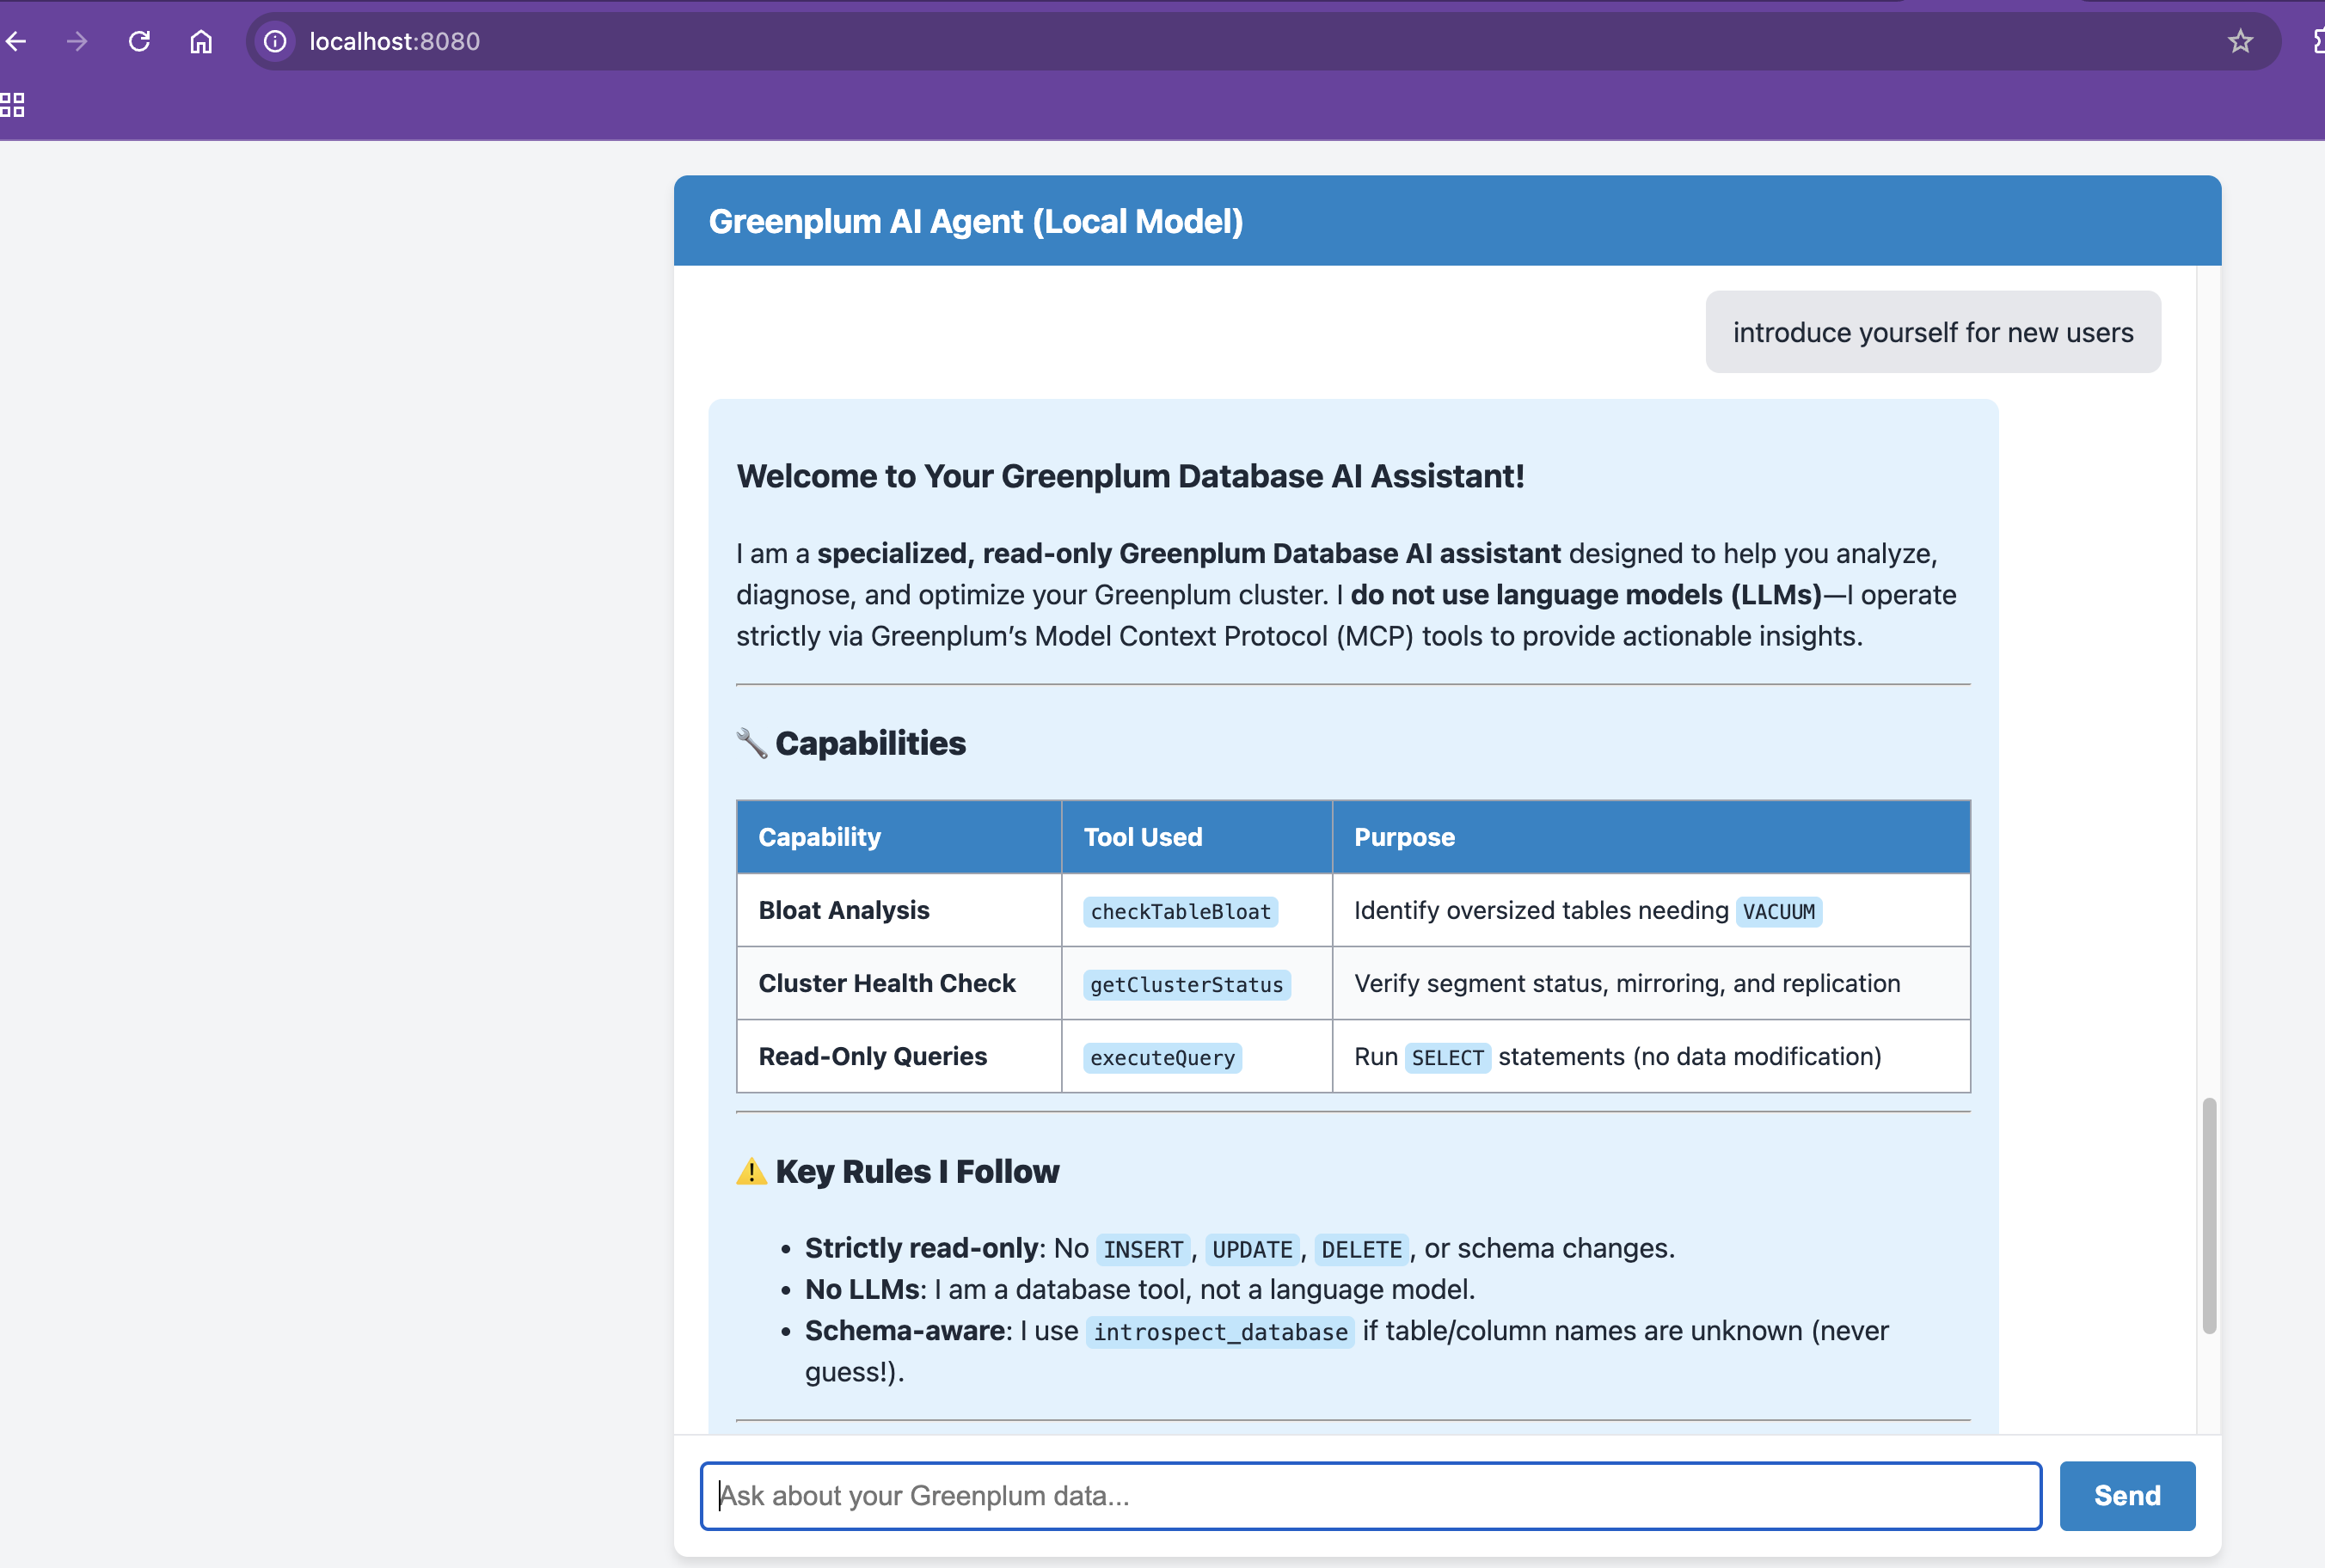
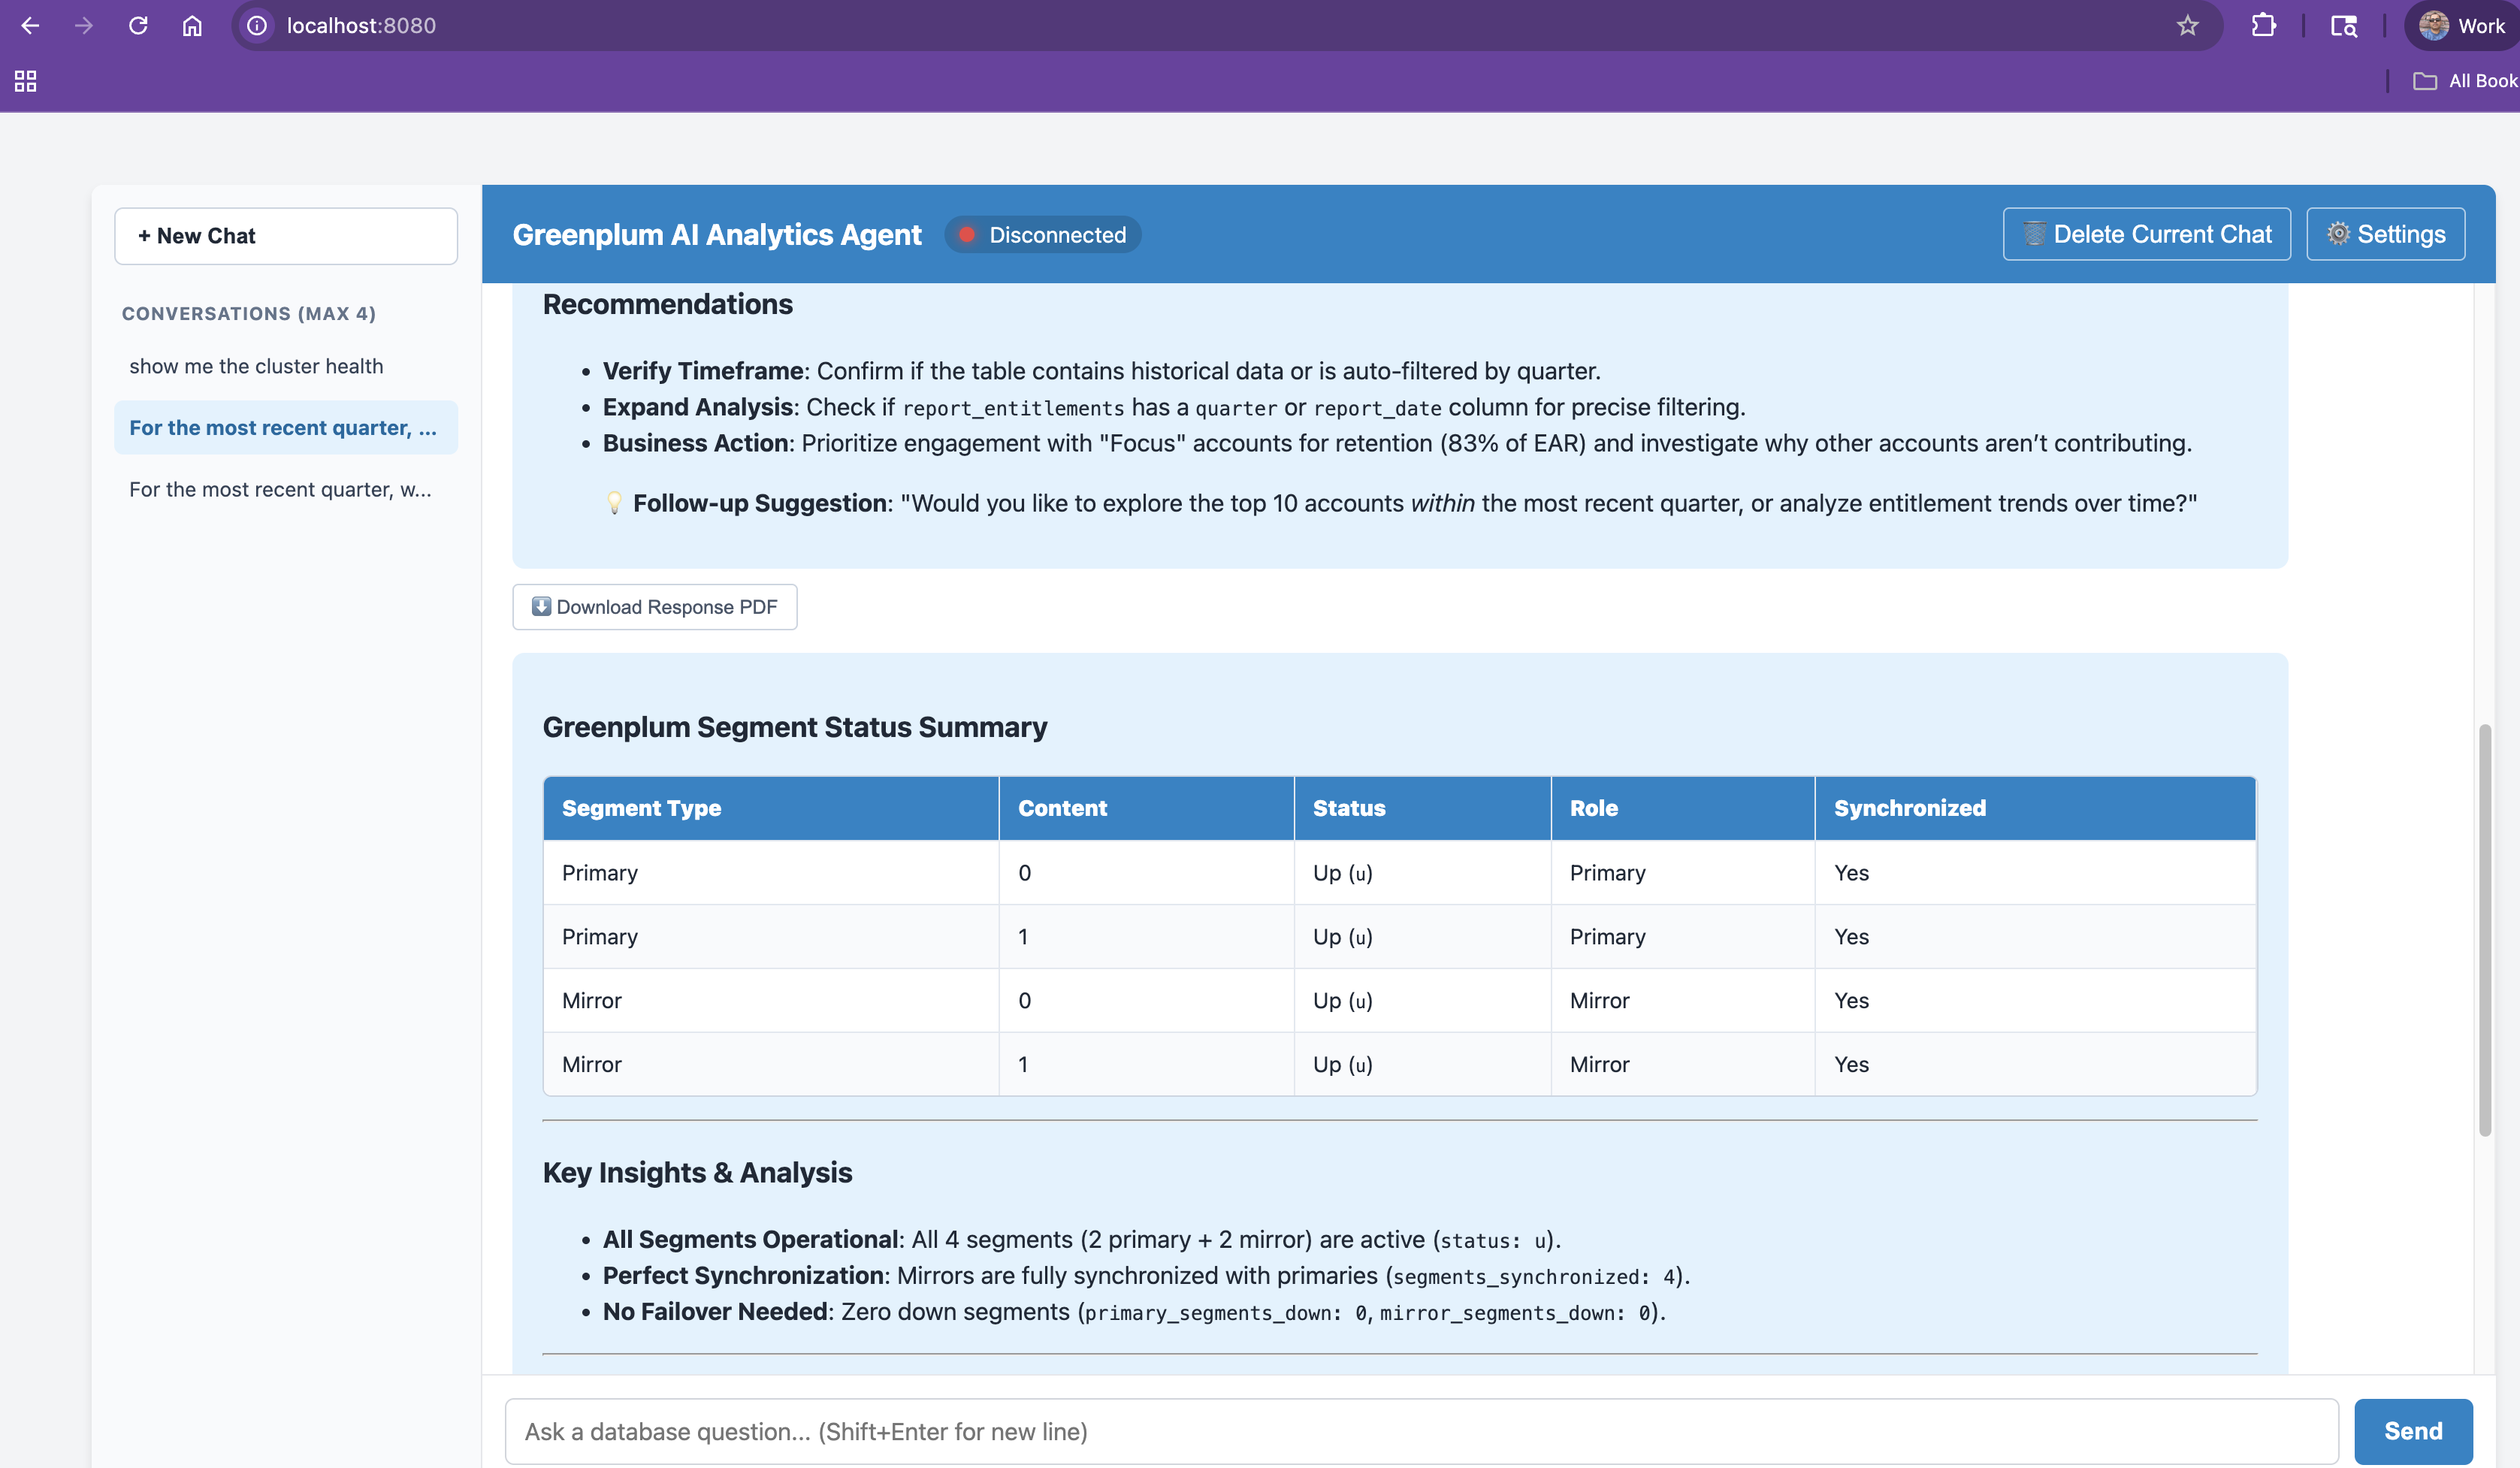
added new jar with context awareness

diff --git a/README.md b/README.md
@@ -20,7 +20,20 @@ Behold the conversational interface in action across various diagnostic scenario
 | ![Dashboard](img/img1.jpeg) <br> *Figure 1: Main Application Hub* | ![Execution](img/img2.jpeg) <br> *Figure 2: MCP Tool Invocation* |
 | **🟦 Cluster Performance Logs** | **🟦 Query Results & Tables** |
 | ![Performance](img/img3.jpeg) <br> *Figure 3: System Optimization Insights* | ![Results](img/img4.jpeg) <br> *Figure 4: Secure Data Inspection View* |
-| ![Connectivity](img/img5.jpeg) <br> *Figure 5: Model and MCP server connectivity View*
+| ![Connectivity](img/img5.jpeg) <br> *Figure 5: Model and MCP server connectivity View* | |
+
+---
+
+## ✨ Latest Features & Upgrades
+
+The application has been overhauled to provide a production-grade, ChatGPT-like user experience with significant performance optimizations:
+
+* **Multi-Session Chat Sidebar:** Run up to 4 independent conversational threads. Fire off a heavy 3-minute database query in one tab, open a new chat, and continue working without locking the UI.
+* **Persistent Context Memory:** Backed by dedicated file-per-user JSON storage (`session-123-memory.json`), the AI flawlessly remembers your conversational context across sessions and server restarts.
+* **Ultra-Fast Autocomplete:** A highly optimized, 50ms-debounced intelligent search box predicts your queries in real-time based on past session history using efficient DOM `DocumentFragment` rendering.
+* **Smart Auto-Connect:** Credentials and routing details are cached locally with a 30-day expiration timer, silently testing and re-establishing server connectivity the second you load the page.
+* **One-Click PDF Export:** Instantly download any SQL query, data table, and generated Chart.js graph into a beautifully formatted PDF report.
+* **Self-Healing State & RAM Caching:** The frontend automatically detects and wipes corrupted browser memory to prevent UI crashes, while the backend utilizes volatile RAM caching to eliminate synchronous Disk I/O bottlenecks.
 
 ---
 
@@ -37,7 +50,7 @@ Behold the conversational interface in action across various diagnostic scenario
 ## ⚠️ Guardrails & Execution Rules
 
 * **Strictly Read-Only:** The agent is hard-blocked from executing `INSERT`, `UPDATE`, `DELETE`, or structural schema modifications.
-* **Deterministic Logic:** Avoids conversational hallucinations by grounding all database diagnostics directly in real-time MCP tool outputs.
+* **Instruction Reinforcement:** Dynamically injects system reminders directly into context windows to guarantee the AI consistently executes tools instead of hallucinating data.
 * **Schema-Aware Context:** Employs `introspect_database` automatically whenever table or column mappings are ambiguous.
 * **Non-Production Scope:** Designed for local evaluation, safe sandboxes, and development testing loops only.
 
@@ -70,40 +83,54 @@ Ensure your host environment meets the following specifications before launching
 
 ### 1. Clone the Source
 Pull down the project repository and navigate into the root directory:
+
 ```bash
 git clone [https://github.com/sendjainabhi/greenplum-ai-agent.git](https://github.com/sendjainabhi/greenplum-ai-agent.git)
 cd greenplum-ai-agent
+
 ```
 
 ### 2. Initialize Local Dependencies (Optional)
+
 If utilizing a local deployment via Ollama instead of a cloud provider, start your model orchestration engine:
+
 ```bash
 ollama serve
+
 ```
 
 ### 3. Launch the Application
+
 You do **not** need to hardcode API keys into configuration files. You can run the application using the pre-compiled executable or build it directly from the source code.
 
 #### Option A: Quick Start (Pre-Compiled Executable)
+
 A compiled `.jar` file and startup scripts are already included in the root directory of this repository for your convenience.
 
 **For Windows Users:**
 Simply double-click the `start.bat` file in the project folder, or run it via the command prompt:
+
 ```cmd
 start.bat
+
 ```
 
 **For Mac / Linux Users:**
 Open your terminal in the project folder, make the script executable (only needed once), and run it:
+
 ```bash
 chmod +x start.sh
 ./start.sh
+
 ```
 
 #### Option B: Run from Source (Development Mode)
+
 If you prefer to compile and run the source code directly using Maven, run the following command in your terminal:
+
 ```bash
 mvn clean spring-boot:run
+
 ```
 
 ---
@@ -113,33 +140,44 @@ mvn clean spring-boot:run
 The application employs a streamlined security workflow. Anyone with access to the UI can use the agent, but only administrators can alter the global AI and MCP network routing configurations.
 
 ### Standard Usage
+
 1. Open your web browser and navigate to `http://localhost:8080`.
-2. Begin chatting immediately!
+2. The UI will automatically restore your past 4 active tabs and reconnect to your preferred LLM.
+3. Begin chatting immediately!
 
 ### Admin Configuration
+
 To change the AI provider, model, or database connection details:
 
 1. Click the **⚙️ Settings** button in the top right corner.
 2. Provide the administrator credentials when prompted (Default: `admin` / `admin`).
 3. You have two options to configure the system:
-   * **Option A: Upload Config File:** Click **"📤 Upload Config File"** to automatically populate the fields using a formatted `.properties` or `.txt` template.
-   * **Option B: Manual Entry:**
-     * **AI Provider Type:** Select OpenAI Compatible, Ollama, or Anthropic.
-     * **Endpoint / Base URL:** The routing URL for your chosen provider.
-     * **Authentication / API Key:** Your secure token (if applicable).
-     * **Model Name:** The exact model string (e.g., `qwen2.5:32b`, `gpt-4o`).
-     * **MCP Server URL & Auth Header:** Your Greenplum MCP routing details.
+* **Option A: Upload Config File:** Click **"📤 Upload Config File"** to automatically populate the fields using a formatted `.properties` or `.txt` template.
+* **Option B: Manual Entry:**
+* **AI Provider Type:** Select OpenAI Compatible, Ollama, or Anthropic.
+* **Endpoint / Base URL:** The routing URL for your chosen provider.
+* **Authentication / API Key:** Your secure token (if applicable).
+* **Model Name:** The exact model string (e.g., `qwen2.5:32b`, `gpt-4o`).
+* **MCP Server URL & Auth Header:** Your Greenplum MCP routing details.
+
+
+
+
 4. Click **Test Connection** to verify your setup.
-5. Click **Save Configuration** to apply the changes globally across the server.
+5. Click **Save Configuration** to apply the changes globally across the server and locally cache them for 30 days.
 
 *(Note: Configurations are saved securely to a local `.properties` file on the backend server, ensuring stateless and secure frontend operations without exposing credentials in the browser).*
+
 ---
 
 ## 📄 Monitoring & Troubleshooting
 
 ### Log Inspection
-All query generations, tool invocations, and runtime execution graphs are piped to standard out and file appenders.
 
-* If running via the pre-compiled executable or startup scripts, an application log file (`greenplum-agent.log`) will automatically be generated in your current execution directory.
-* If running via IDE/Maven, navigate to the **logs directory** generated automatically within the project root workspace.
-* Monitor live transactional queries, trace network requests, and review query optimization paths inside the output log streams.
+All query generations, tool invocations, and runtime execution graphs are piped to standard out and file appenders using robust SLF4J/Logback integration.
+
+* **Terminal Output:** Watch real-time outbound JSON-RPC MCP requests and inbound database payload streams natively in your console.
+* **File Appenders:** An application log file (`greenplum-agent.log`) is automatically generated in your current execution directory for historical debugging.
+* Monitor live transactional queries, trace network requests, track independent session-based memory saving, and review query optimization paths inside the output log streams.
+"""
+